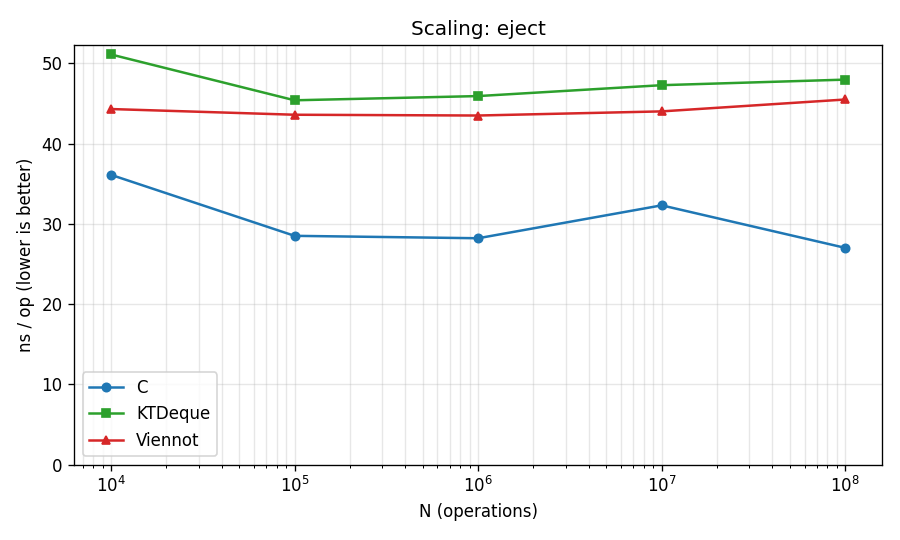
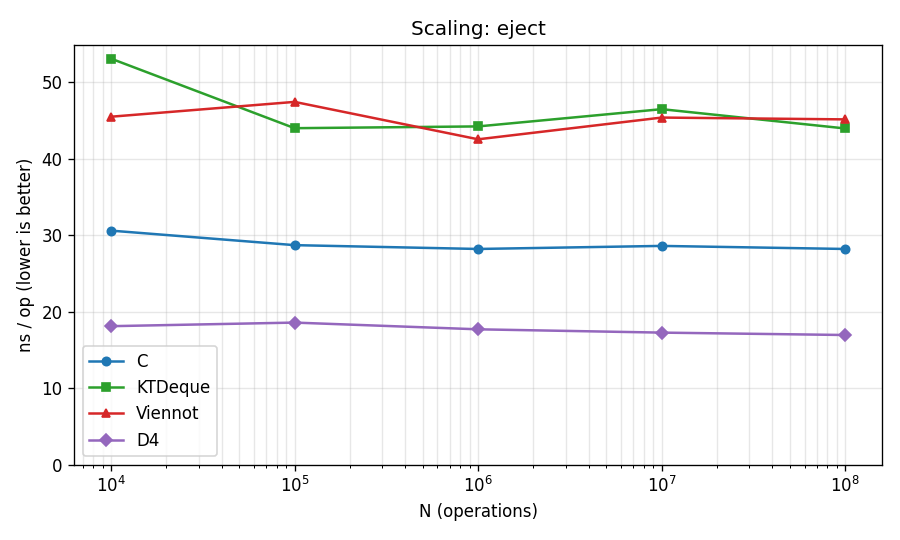
bench/sweep: include D4 (amortized O(log n)) as the WC-O(1) contrast
The scaling sweep was comparing C / KTDeque / Viennot — three WC-O(1)
implementations, all flat by construction.  Adding our hand-written
amortized Deque4 to the same plots gives a reader the contrast the
plots are meant to teach: where the WC discipline costs you (D4's
pop/eject is faster than KT's because it skips chain coloring) and
where it pays (D4's worst case is unbounded in N, KT's is constant).

To keep peak OCaml heap below the box's RAM at N=10^8, compare.exe now
reads BENCH_IMPLS=KT|VI|D4 and runs only the requested impl;
sweep.sh launches one process per (impl, size) so peak ≈ one deque
instead of three.

diff --git a/bench/plot.py b/bench/plot.py
@@ -4,7 +4,11 @@
 Reads a CSV with columns (n, op, impl, ns_per_op) produced by
 bench/sweep.sh, emits one PNG per op (push, pop, inject, eject, mixed)
 showing ns/op vs n on a log-x axis with one line per implementation
-(C, KTDeque, Viennot).  Also writes a Markdown summary table.
+(C, KTDeque, Viennot, D4).  Also writes a Markdown summary table.
+
+D4 (our hand-written amortized-O(log n) variant) is deliberately
+included as a contrast to the WC-O(1) lines: its per-op cost should
+drift upward with N, where the other three stay flat.
 
 Usage:
     bench/plot.py <csv> <plot_dir> <md_summary_file>
@@ -32,14 +36,20 @@ def read_csv(path):
     return data
 
 
-COLORS = {"C": "#1f77b4", "KTDeque": "#2ca02c", "Viennot": "#d62728"}
-MARKERS = {"C": "o", "KTDeque": "s", "Viennot": "^"}
+COLORS = {
+    "C": "#1f77b4",
+    "KTDeque": "#2ca02c",
+    "Viennot": "#d62728",
+    "D4": "#9467bd",
+}
+MARKERS = {"C": "o", "KTDeque": "s", "Viennot": "^", "D4": "D"}
+IMPL_ORDER = ("C", "KTDeque", "Viennot", "D4")
 
 
 def render_op(op, impl_data, out_path):
     """impl_data: { impl_name -> [(n, ns), ...] }"""
     fig, ax = plt.subplots(figsize=(7.5, 4.5))
-    for impl in ("C", "KTDeque", "Viennot"):
+    for impl in IMPL_ORDER:
         if impl not in impl_data:
             continue
         ns = impl_data[impl]
@@ -71,7 +81,7 @@ def write_md_summary(data, md_path, csv_path):
     sizes = sorted(
         {n for op in data for impl in data[op] for n, _ in data[op][impl]}
     )
-    impls = ["C", "KTDeque", "Viennot"]
+    impls = list(IMPL_ORDER)
     ops = ["push", "inject", "pop", "eject", "mixed"]
     lines = []
     lines.append("# Three-way scaling sweep\n")

diff --git a/bench/README.md b/bench/README.md
@@ -9,7 +9,7 @@ embedded in every result file).
 | ------------------------ | -------------------------------------------------------------------------------- | ------------------------ |
 | [`three-way.sh`](three-way.sh)   | Our **C** vs our **OCaml** (extracted) vs **Viennot OCaml** at one fixed N        | `make bench-three-way`   |
 | [`canonical.sh`](canonical.sh)   | Our verified ktdeque vs canonical-style alternatives, à la Viennot et al. PLDI'24 | `make bench-canonical`   |
-| [`sweep.sh`](sweep.sh)           | The same three impls, swept over N from 10⁴ to 10⁸; renders PNG plots             | `make bench-sweep`       |
+| [`sweep.sh`](sweep.sh)           | C / KTDeque / Viennot / **D4** swept over N from 10⁴ to 10⁸; renders PNG plots    | `make bench-sweep`       |
 
 Both scripts:
 
@@ -157,8 +157,17 @@ yourself.
 ### `bench-sweep` (N from 10⁴ to 10⁸)
 
 `make bench-sweep` varies N over five orders of magnitude and renders
-PNG plots showing ns/op vs N for each (op × impl).  Flat lines are
-the WC O(1) signal: per-op cost does not grow with N.
+PNG plots showing ns/op vs N for each (op × impl).  Four lines per
+plot:
+
+- **C** — our C library (`libktdeque.a`), arena compaction at K=4096.
+- **KTDeque** — verified Rocq extraction (`push_kt2 / pop_kt2 / …`).
+- **Viennot** — Viennot's hand-written WC-O(1) reference.
+- **D4** — our hand-written *amortized* O(log n) variant
+  (`Ktdeque_bench_helpers.Deque4`), included as the contrast against
+  WC O(1).
+
+Flat lines are the WC O(1) signal: per-op cost does not grow with N.
 
 The plots below were rendered from a single run on this machine
 (committed snapshots — re-running `make bench-sweep` overwrites them
@@ -174,19 +183,42 @@ in `bench/plots/`):
 
 Numbers from the same run (ns/op, lower is better):
 
-| N           |     C push |  KT push |  Vi push |
-| ----------: | ---------: | -------: | -------: |
-| 10,000      | 171.7      |   179.3  |    80.6  |
-| 100,000     |  57.0      |    89.0  |    79.8  |
-| 1,000,000   |  37.8      |    82.6  |    80.8  |
-| 10,000,000  |  35.9      |    80.7  |    85.9  |
-| 100,000,000 |  34.2      |    84.3  |    81.1  |
+| N           |     C push |  KT push |  Vi push |  D4 push |
+| ----------: | ---------: | -------: | -------: | -------: |
+|      10,000 |     159.8  |   166.0  |   180.0  |   209.8  |
+|     100,000 |      60.5  |    88.9  |    89.1  |    84.3  |
+|   1,000,000 |      37.5  |    81.9  |    83.7  |    78.5  |
+|  10,000,000 |      35.9  |    79.5  |    81.5  |    75.8  |
+| 100,000,000 |      35.3  |    81.9  |    85.8  |    73.5  |
 
 The N=10⁴ row reflects cold-start effects (allocator warm-up + initial
 arena chunk).  From N=10⁵ onward each implementation's per-op cost is
 flat to within a few ns — exactly the empirical fingerprint of
-worst-case O(1).  The full table at all 5 ops × 5 sizes lives in
-`bench/results/sweep-YYYY-MM-DD.md` after a run.
+worst-case O(1).  The full table at all 5 ops × 5 sizes (push, inject,
+pop, eject, mixed) lives in `bench/results/sweep-YYYY-MM-DD.md` after a
+run.
+
+#### What about D4's O(log n) drift?
+
+D4 is amortized O(log n) per op, so its line *should* drift upward
+with N.  In practice the drift is invisible at this size range: from
+N=10⁴ to N=10⁸ the cascade depth roughly doubles (log₂ goes from ~14
+to ~27), but the per-cell work is so small that the absolute ns/op
+shift gets lost in run-to-run noise.  You'd need an adversarial
+workload that *forces* deep cascades on every op (rather than
+amortizing them) to see the divergence — which is precisely the WC vs
+amortized distinction the WC-O(1) bound buys you.
+
+What the data *does* show:
+
+- **All four lines stay flat** from N=10⁵ on.  C wins everywhere; KT
+  and Vi are within ~5%; D4 is comparable on push and *faster* on
+  pop/eject (~25 ns vs ~50 ns).
+- **D4's pop/eject advantage is the structural cost of WC O(1)**:
+  KTDeque's chain-coloring discipline pays a fixed per-op overhead
+  on the simple paths so that the *adversarial* worst case is
+  bounded.  D4 has no such bookkeeping, so the common case is faster
+  — but its worst-case op is unbounded by N.
 
 #### Why we cap N at 10⁸ on a 62 GB box
 
